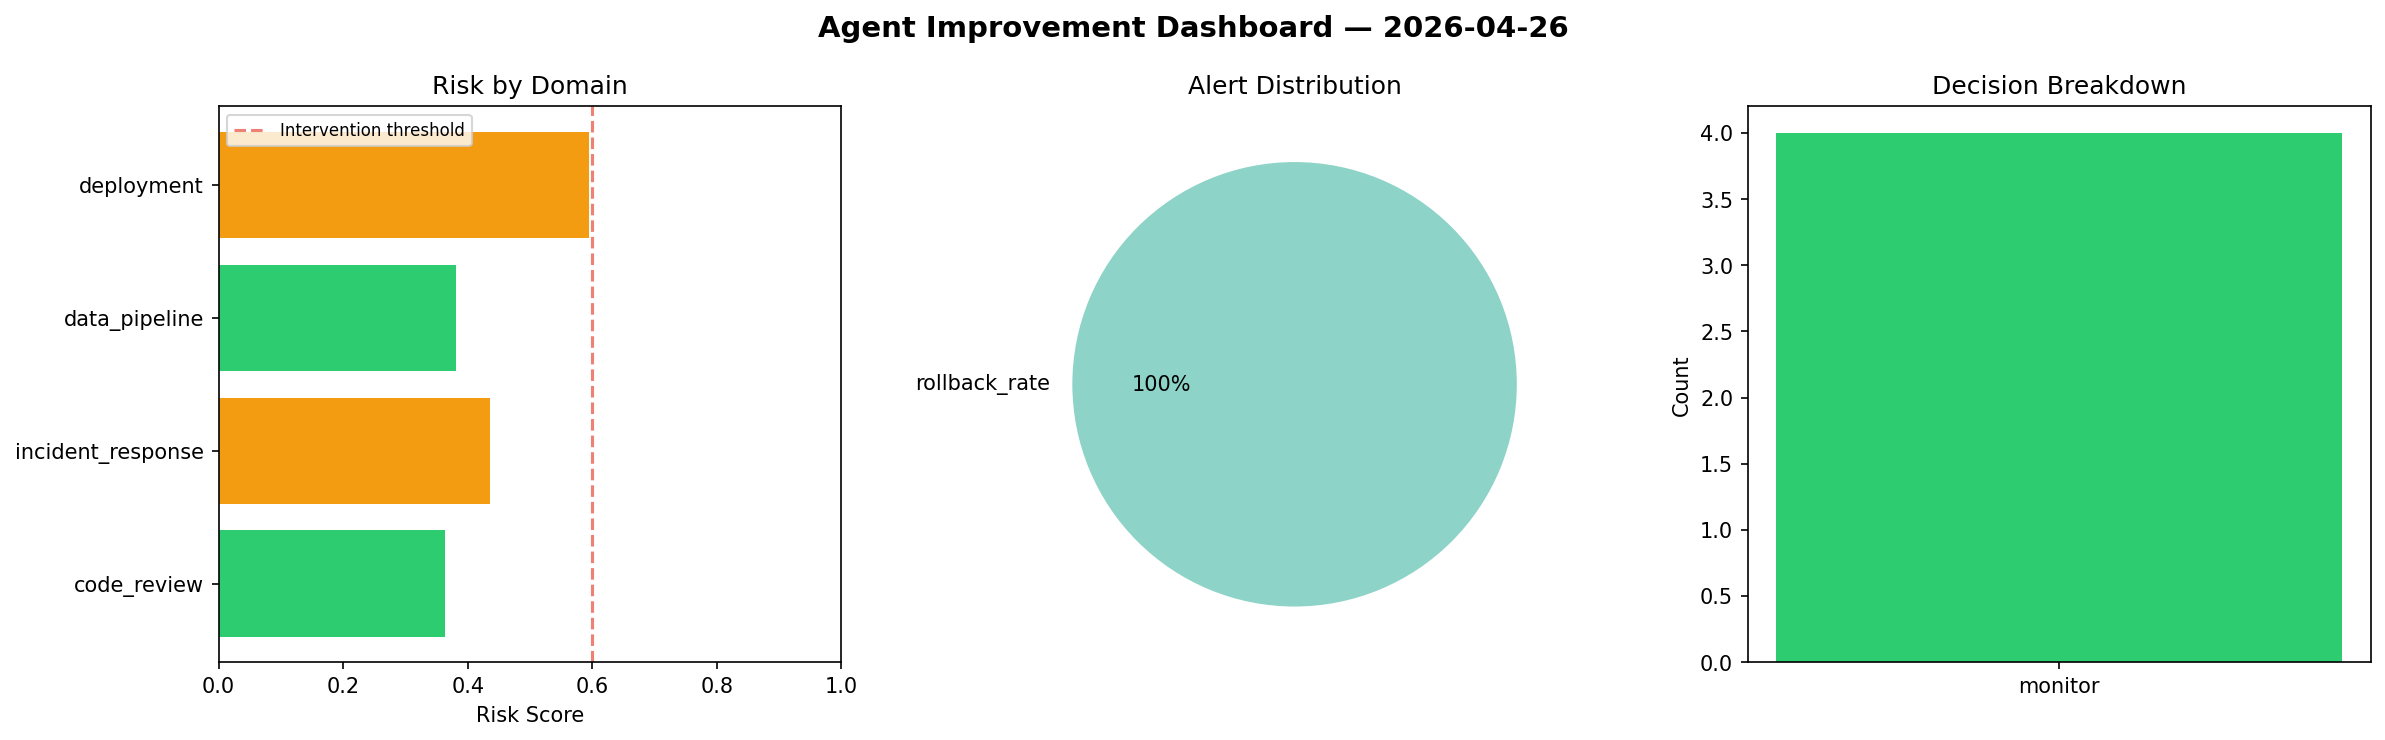
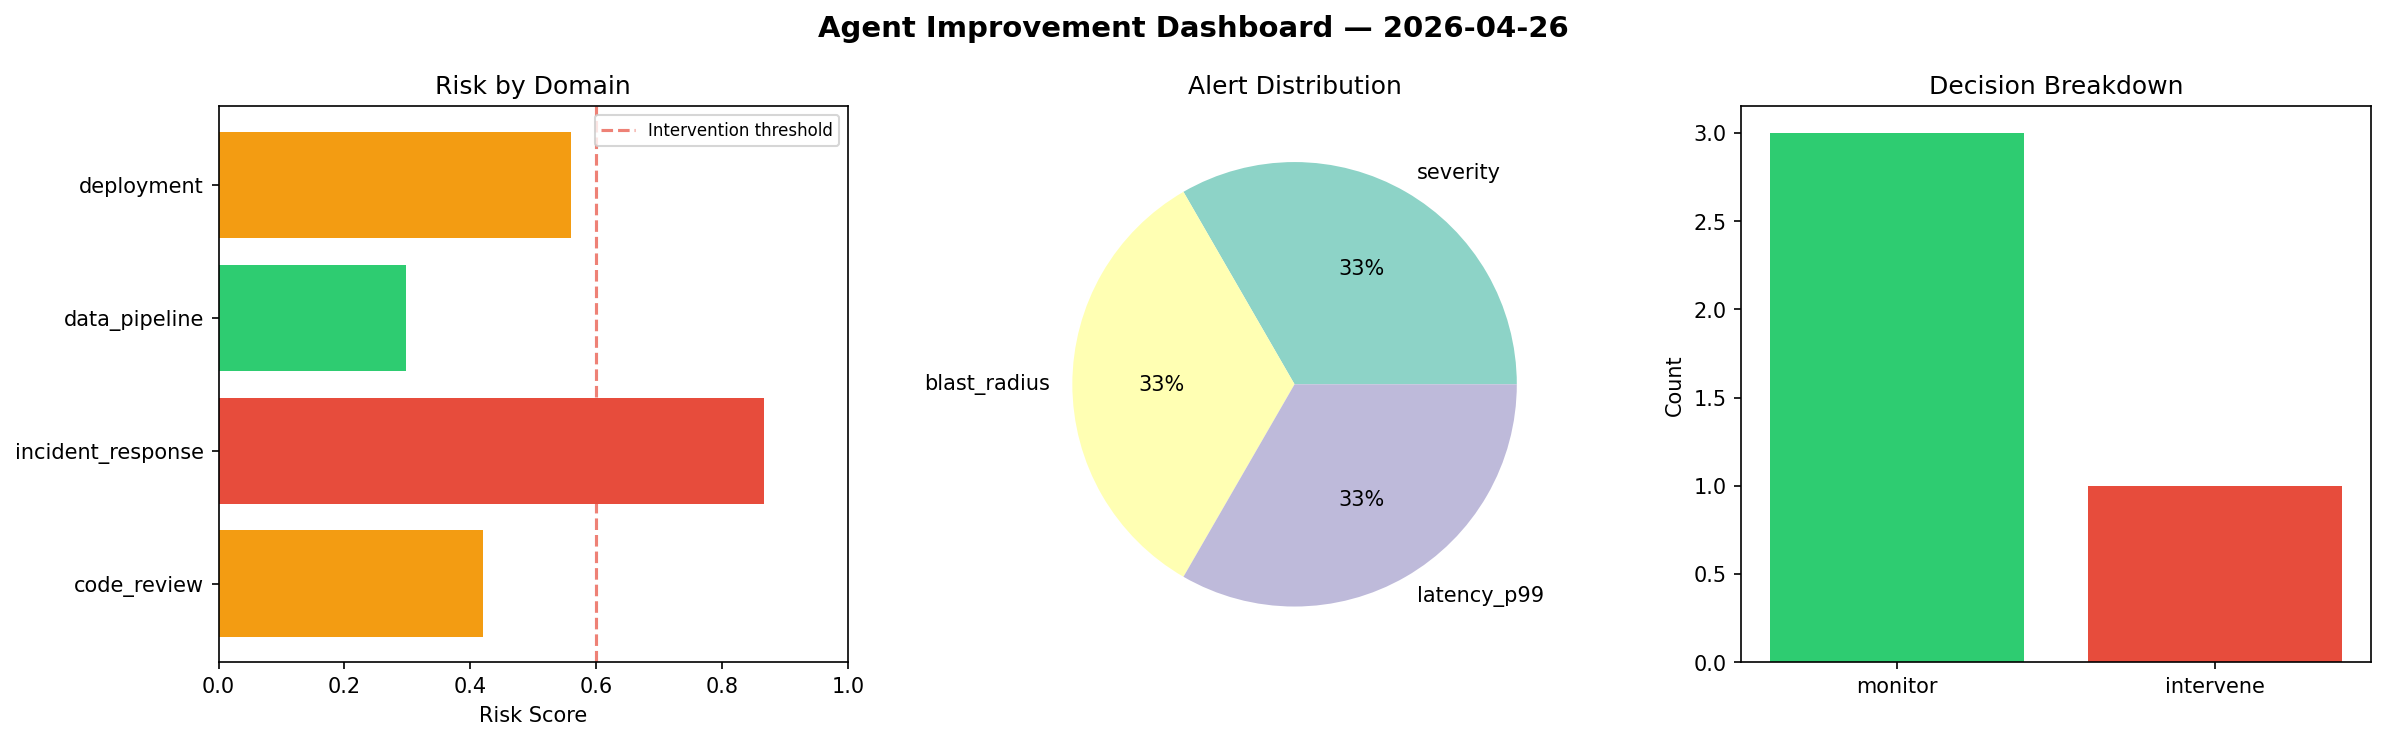
agent-improvement: daily cycle 2026-04-26T09:14

diff --git a/logs/2026-04-26.md b/logs/2026-04-26.md
@@ -1,6 +1,6 @@
 # Agent Improvement Report — 2026-04-26
 
-**Cycle ID:** `8abd8ee1` | **Avg Risk:** 0.4439 | **Interventions:** 0/4
+**Cycle ID:** `48c8a366` | **Avg Risk:** 0.5365 | **Interventions:** 1/4
 
 ![Dashboard](2026-04-26_dashboard.png)
 
@@ -10,18 +10,18 @@
 
 | Domain | Risk Score | Decision | Alerts |
 |--------|-----------|----------|--------|
-| code_review | 0.3634 | monitor | none |
-| incident_response | 0.4356 | monitor | none |
-| data_pipeline | 0.3818 | monitor | none |
-| deployment | 0.5948 | monitor | rollback_rate |
+| code_review | 0.4205 | monitor | none |
+| incident_response | 0.8669 | intervene | severity, blast_radius |
+| data_pipeline | 0.2986 | monitor | none |
+| deployment | 0.5602 | monitor | latency_p99 |
 
 ## Delta vs Yesterday
 
 | Domain | Today | Yesterday | Change |
 |--------|-------|-----------|--------|
-| code_review | 0.3634 | 0.4513 | 📉 -19.5% |
-| incident_response | 0.4356 | 0.6719 | 📉 -35.2% |
-| data_pipeline | 0.3818 | 0.6323 | 📉 -39.6% |
-| deployment | 0.5948 | 0.3463 | 📈 71.8% |
+| code_review | 0.4205 | 0.4513 | 📉 -6.8% |
+| incident_response | 0.8669 | 0.6719 | 📈 29.0% |
+| data_pipeline | 0.2986 | 0.6323 | 📉 -52.8% |
+| deployment | 0.5602 | 0.3463 | 📈 61.8% |
 
 **Refinement:** `{'adjustment': 'tighten_thresholds', 'trend': 'degrading', 'window': 4}`
